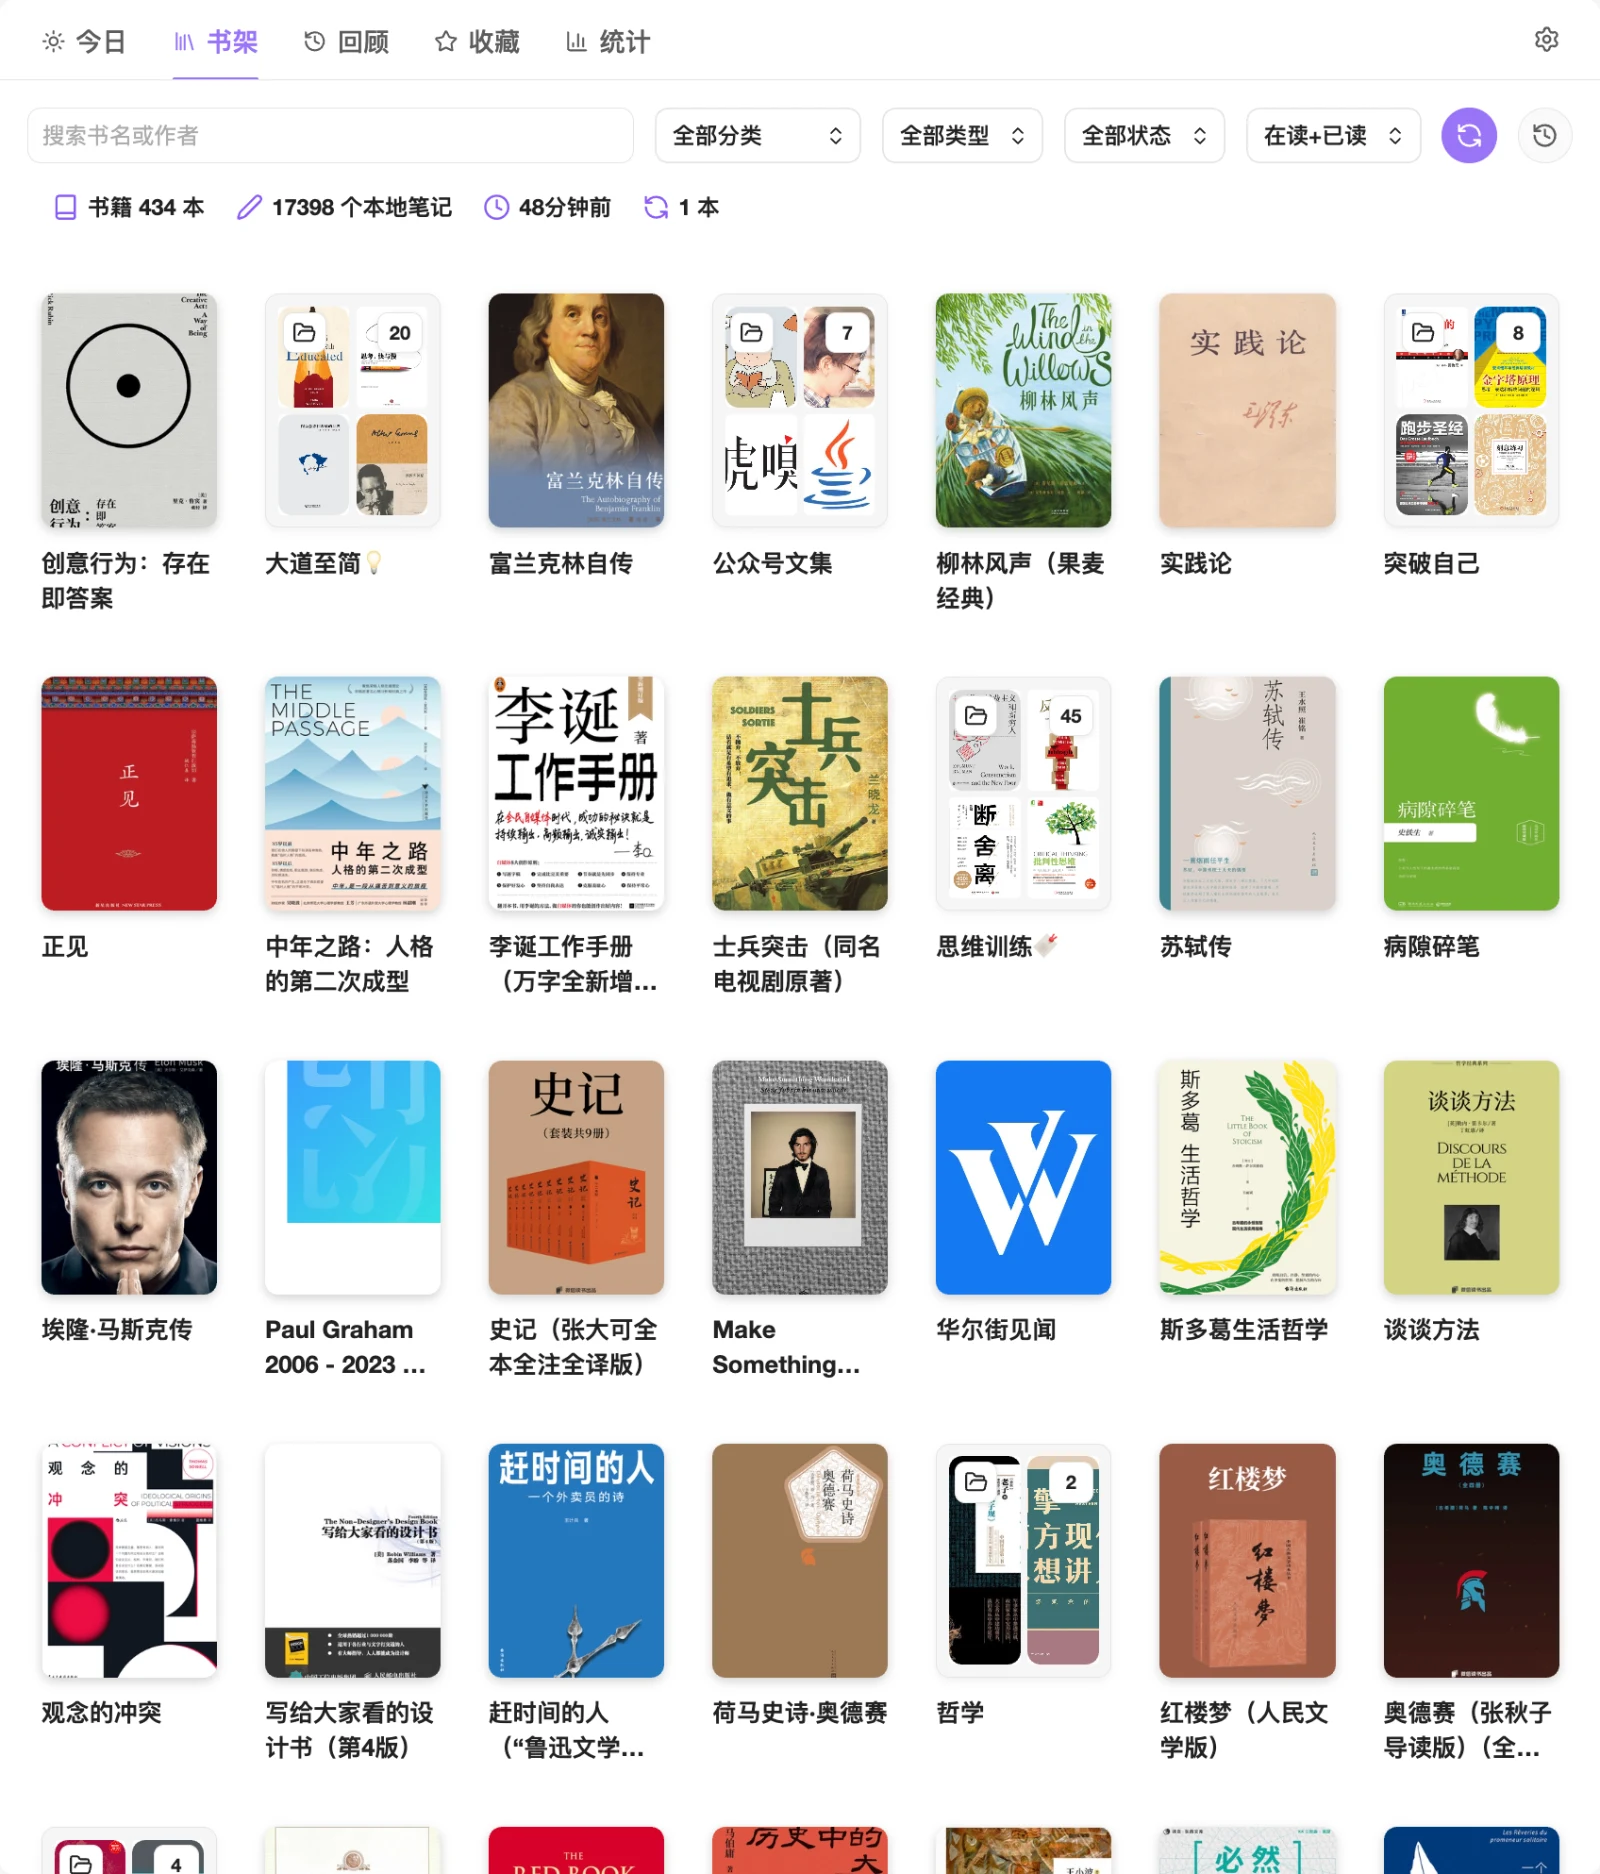
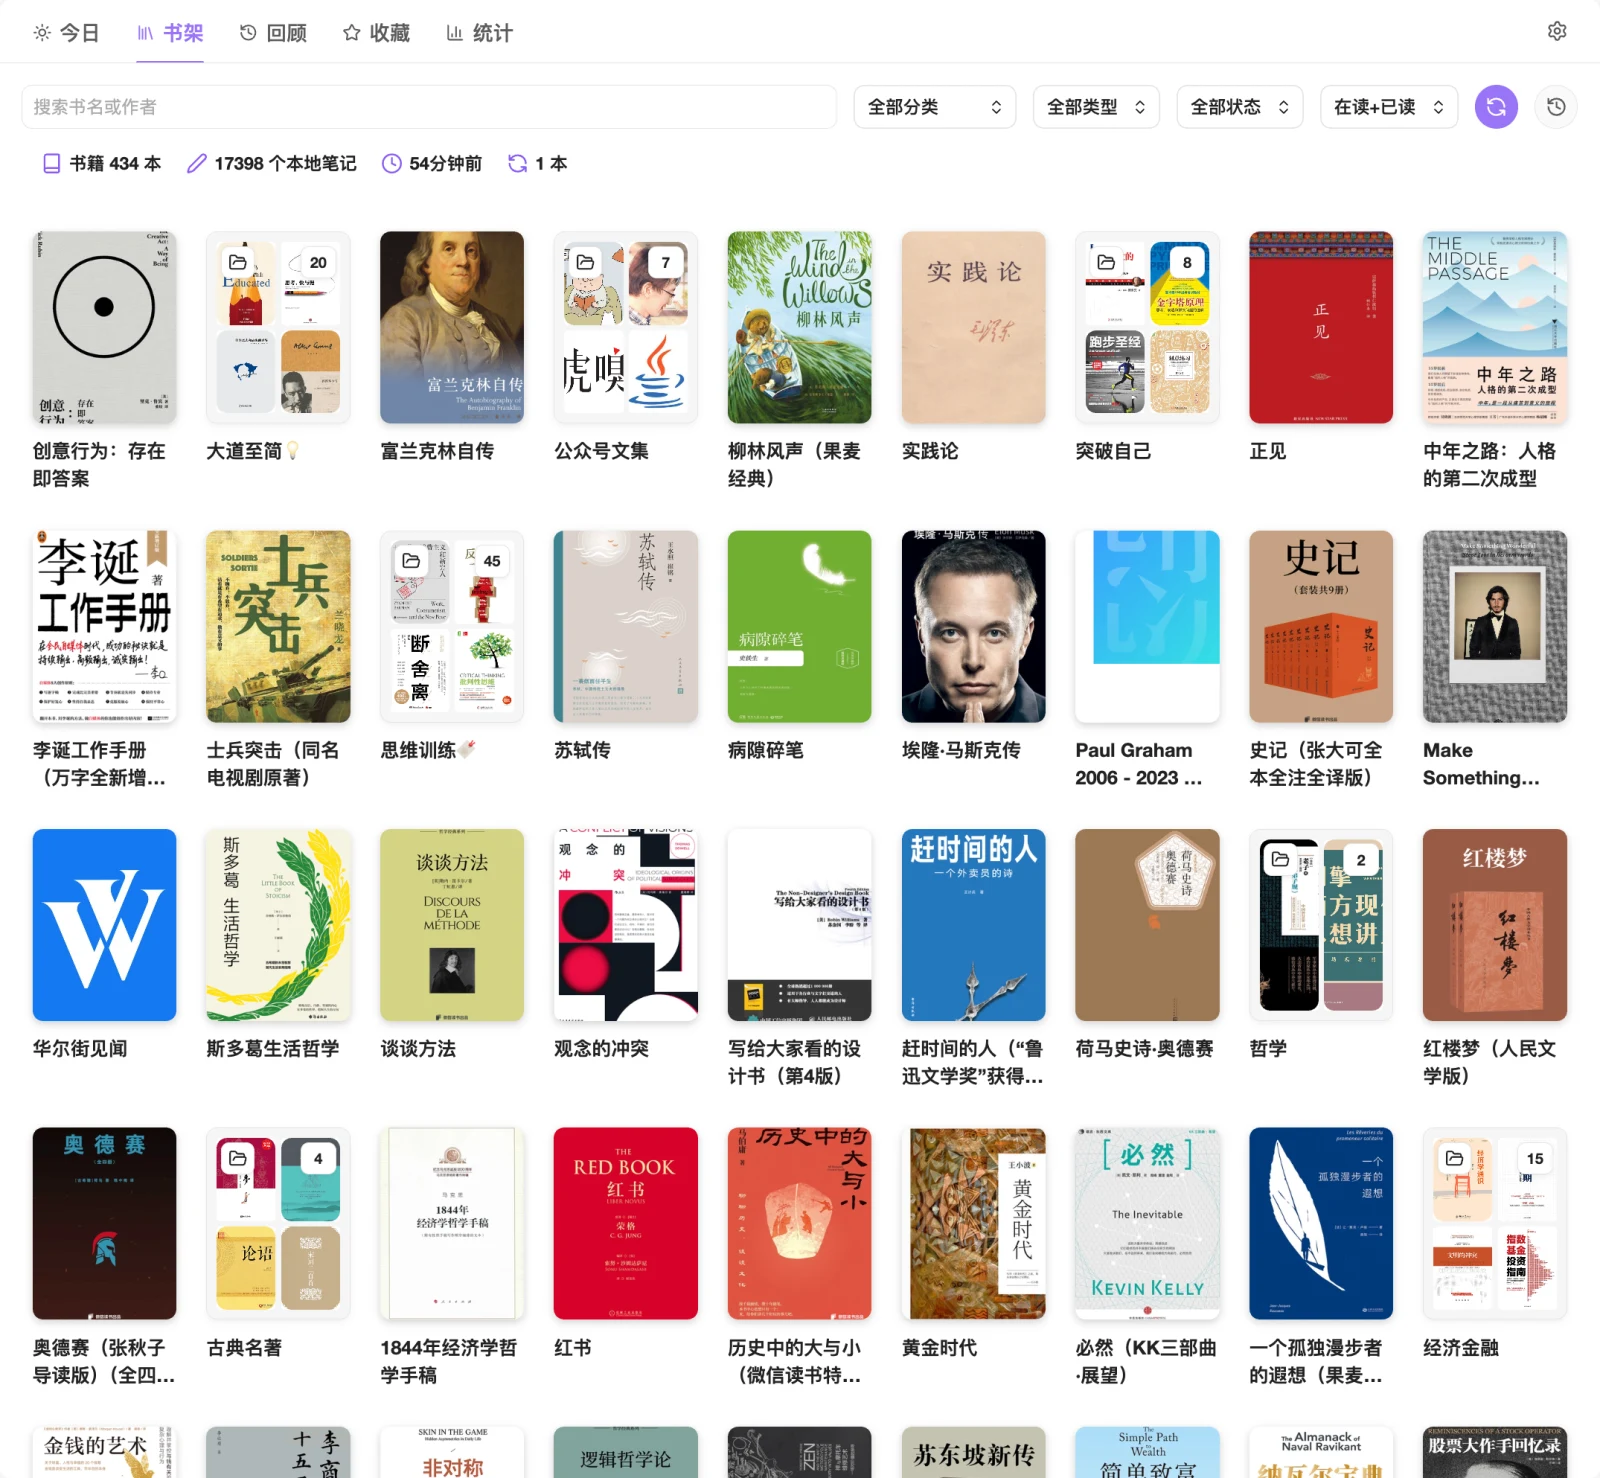
style: 收紧书架封面间距

diff --git a/src/components/wereadBookshelf.css b/src/components/wereadBookshelf.css
@@ -2,7 +2,7 @@
 .weread-bookshelf-folder-grid {
 	display: grid;
 	grid-template-columns: repeat(auto-fill, minmax(112px, 1fr));
-	gap: 20px 12px;
+	gap: 12px 6px;
 	align-items: start;
 	margin: 12px 0 28px;
 }
@@ -247,7 +247,7 @@
 @container (max-width: 480px) {
 	.weread-bookshelf-folder-grid {
 		grid-template-columns: repeat(auto-fill, minmax(97.6px, 1fr));
-		gap: 16px 10px;
+		gap: 10px 6px;
 	}
 	.weread-bookshelf-folder-grid > button.weread-bookshelf-folder-card {
 		padding: 5px;

diff --git a/style.css b/style.css
@@ -1557,7 +1557,7 @@
 .weread-bookshelf-cover-grid {
 	display: grid;
 	grid-template-columns: repeat(auto-fill, minmax(76.8px, 1fr));
-	gap: 14px;
+	gap: 8px;
 }
 
 .weread-bookshelf-cover-card {
@@ -1634,7 +1634,7 @@
 @container (max-width: 480px) {
 	.weread-bookshelf-cover-grid {
 		grid-template-columns: repeat(auto-fill, minmax(57.6px, 1fr));
-		gap: 10px;
+		gap: 6px;
 	}
 }
 

diff --git a/docs/releases/3.4.1.md b/docs/releases/3.4.1.md
@@ -13,7 +13,7 @@
 ## 书架与回顾
 
 - 原书架布局增加官方一级分类下拉筛选，保留同步与历史入口；设置统一放在顶部 Tab 栏最右侧。
-- 书架封面基准尺寸缩小 20%，保持比例；列表、纯封面与文件夹预览同步收紧，不新增滑动条。
+- 书架封面基准尺寸缩小 20%，保持比例并收紧横纵间距；列表、纯封面与文件夹预览同步收紧，不新增滑动条。
 - 旧句重逢支持快捷屏蔽整本书／公众号，可在设置恢复；增加是否包含公众号的持久开关，今日与回顾共用。
 - 「那年今日」按年份分组，保留排序、筛选、笔记操作与统一分页。
 
